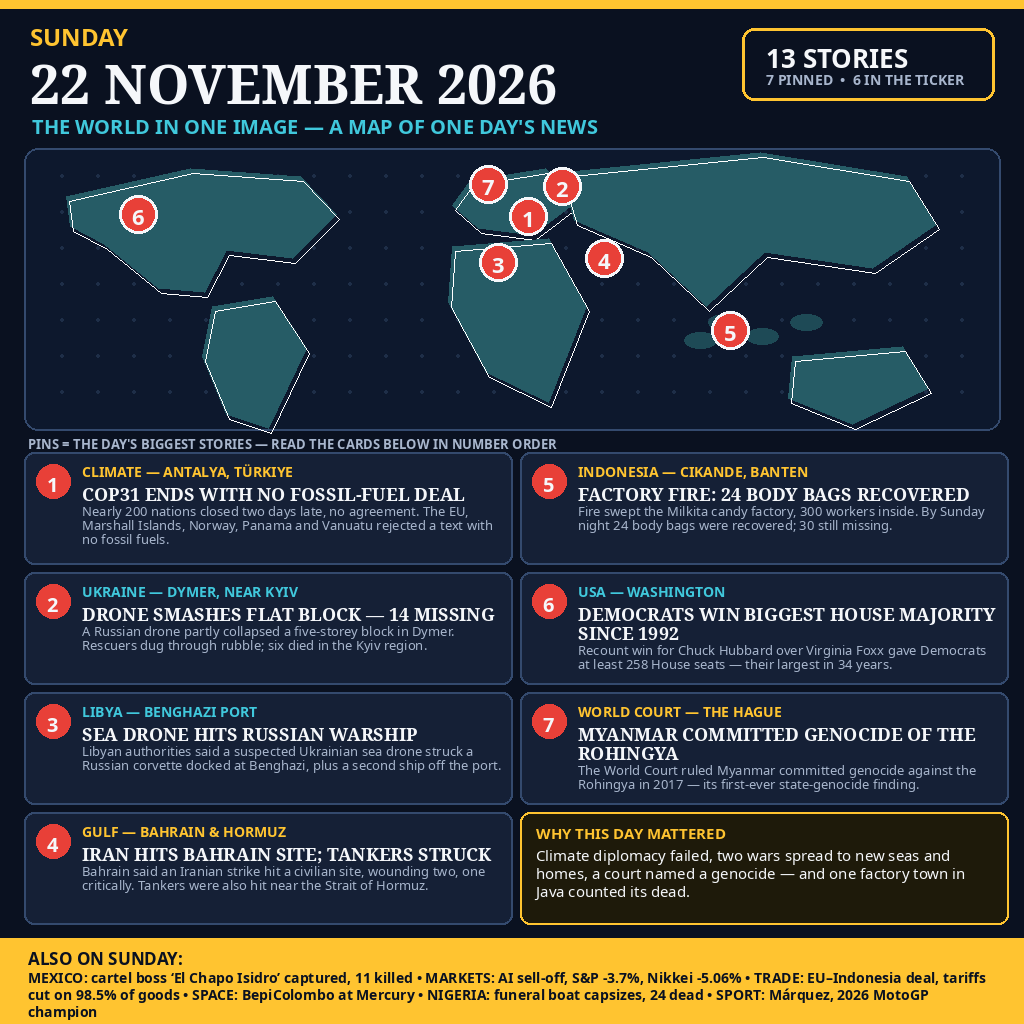
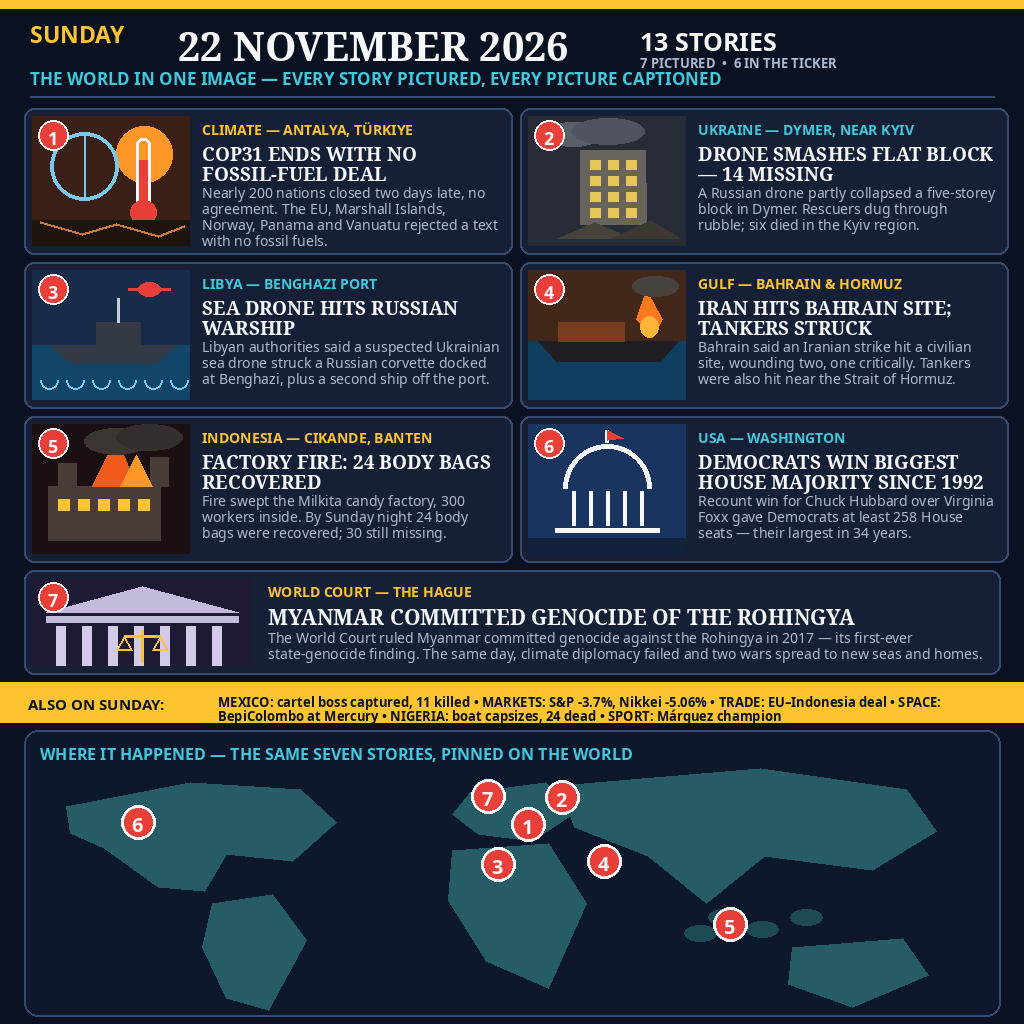
Pattern 3: illustrated scene cards on top, world map pinned at the bottom

diff --git a/README.md b/README.md
@@ -4,18 +4,20 @@
 [![rank](https://make.fun/badge/news-image-20261122/rexaize7/news-image-20261122-bot/rank.svg)](https://make.fun/bounty/news-image-20261122/leaderboard?utm_source=github&utm_medium=readme&utm_campaign=news-image-20261122)
 [![reward](https://make.fun/badge/news-image-20261122/rexaize7/news-image-20261122-bot/reward.svg)](https://make.fun/bounty/news-image-20261122?utm_source=github&utm_medium=readme&utm_campaign=news-image-20261122)
 
-A dark world-map briefing board that sums up **Sunday, 22 November 2026** in
-one 1024 × 1024 image: seven red pins on a stylised world map, each matching a
-numbered story card with a headline and a full caption — COP31 ends with no
-fossil-fuel deal (Antalya), a drone smashes a flat block in Dymer, Ukraine, a
-sea drone hits a Russian warship at Benghazi, Iran hits a Bahrain site and
-tankers are struck near Hormuz, the Cikande candy-factory fire in Indonesia,
-the Democrats' biggest US House majority since 1992, and the World Court's
-Rohingya genocide ruling — plus a yellow ticker with six more stories
-(Mexico, markets, EU–Indonesia trade, BepiColombo, Nigeria, MotoGP) and a
-closing card, “Why this day mattered”. `main.py` (Python 3, standard library
-only, no network) copies the pre-drawn `entry.png` to `/output/entry.png`,
-byte for byte on every run.
+An illustrated briefing board that sums up **Sunday, 22 November 2026** in
+one 1024 × 1024 image: seven numbered story cards, each with its own scene
+picture drawn for the event and a full caption — COP31 ends with no
+fossil-fuel deal (Antalya, thermometer and globe), a drone smashes a flat
+block in Dymer, Ukraine (the lit, broken tower), a sea drone hits a Russian
+warship at Benghazi (warship and drone), Iran hits a Bahrain site and tankers
+are struck near Hormuz (burning tanker), the Cikande candy-factory fire in
+Indonesia (the burning factory), the Democrats' biggest US House majority
+since 1992 (the Capitol dome), and the World Court's Rohingya genocide
+ruling (the court temple) — plus a yellow ticker with six more stories
+(Mexico, markets, EU–Indonesia trade, BepiColombo, Nigeria, MotoGP) and, at
+the bottom, a stylised world map pinning all seven stories where they
+happened. `main.py` (Python 3, standard library only, no network) copies the
+pre-drawn `entry.png` to `/output/entry.png`, byte for byte on every run.
 
 ## Run it
 
